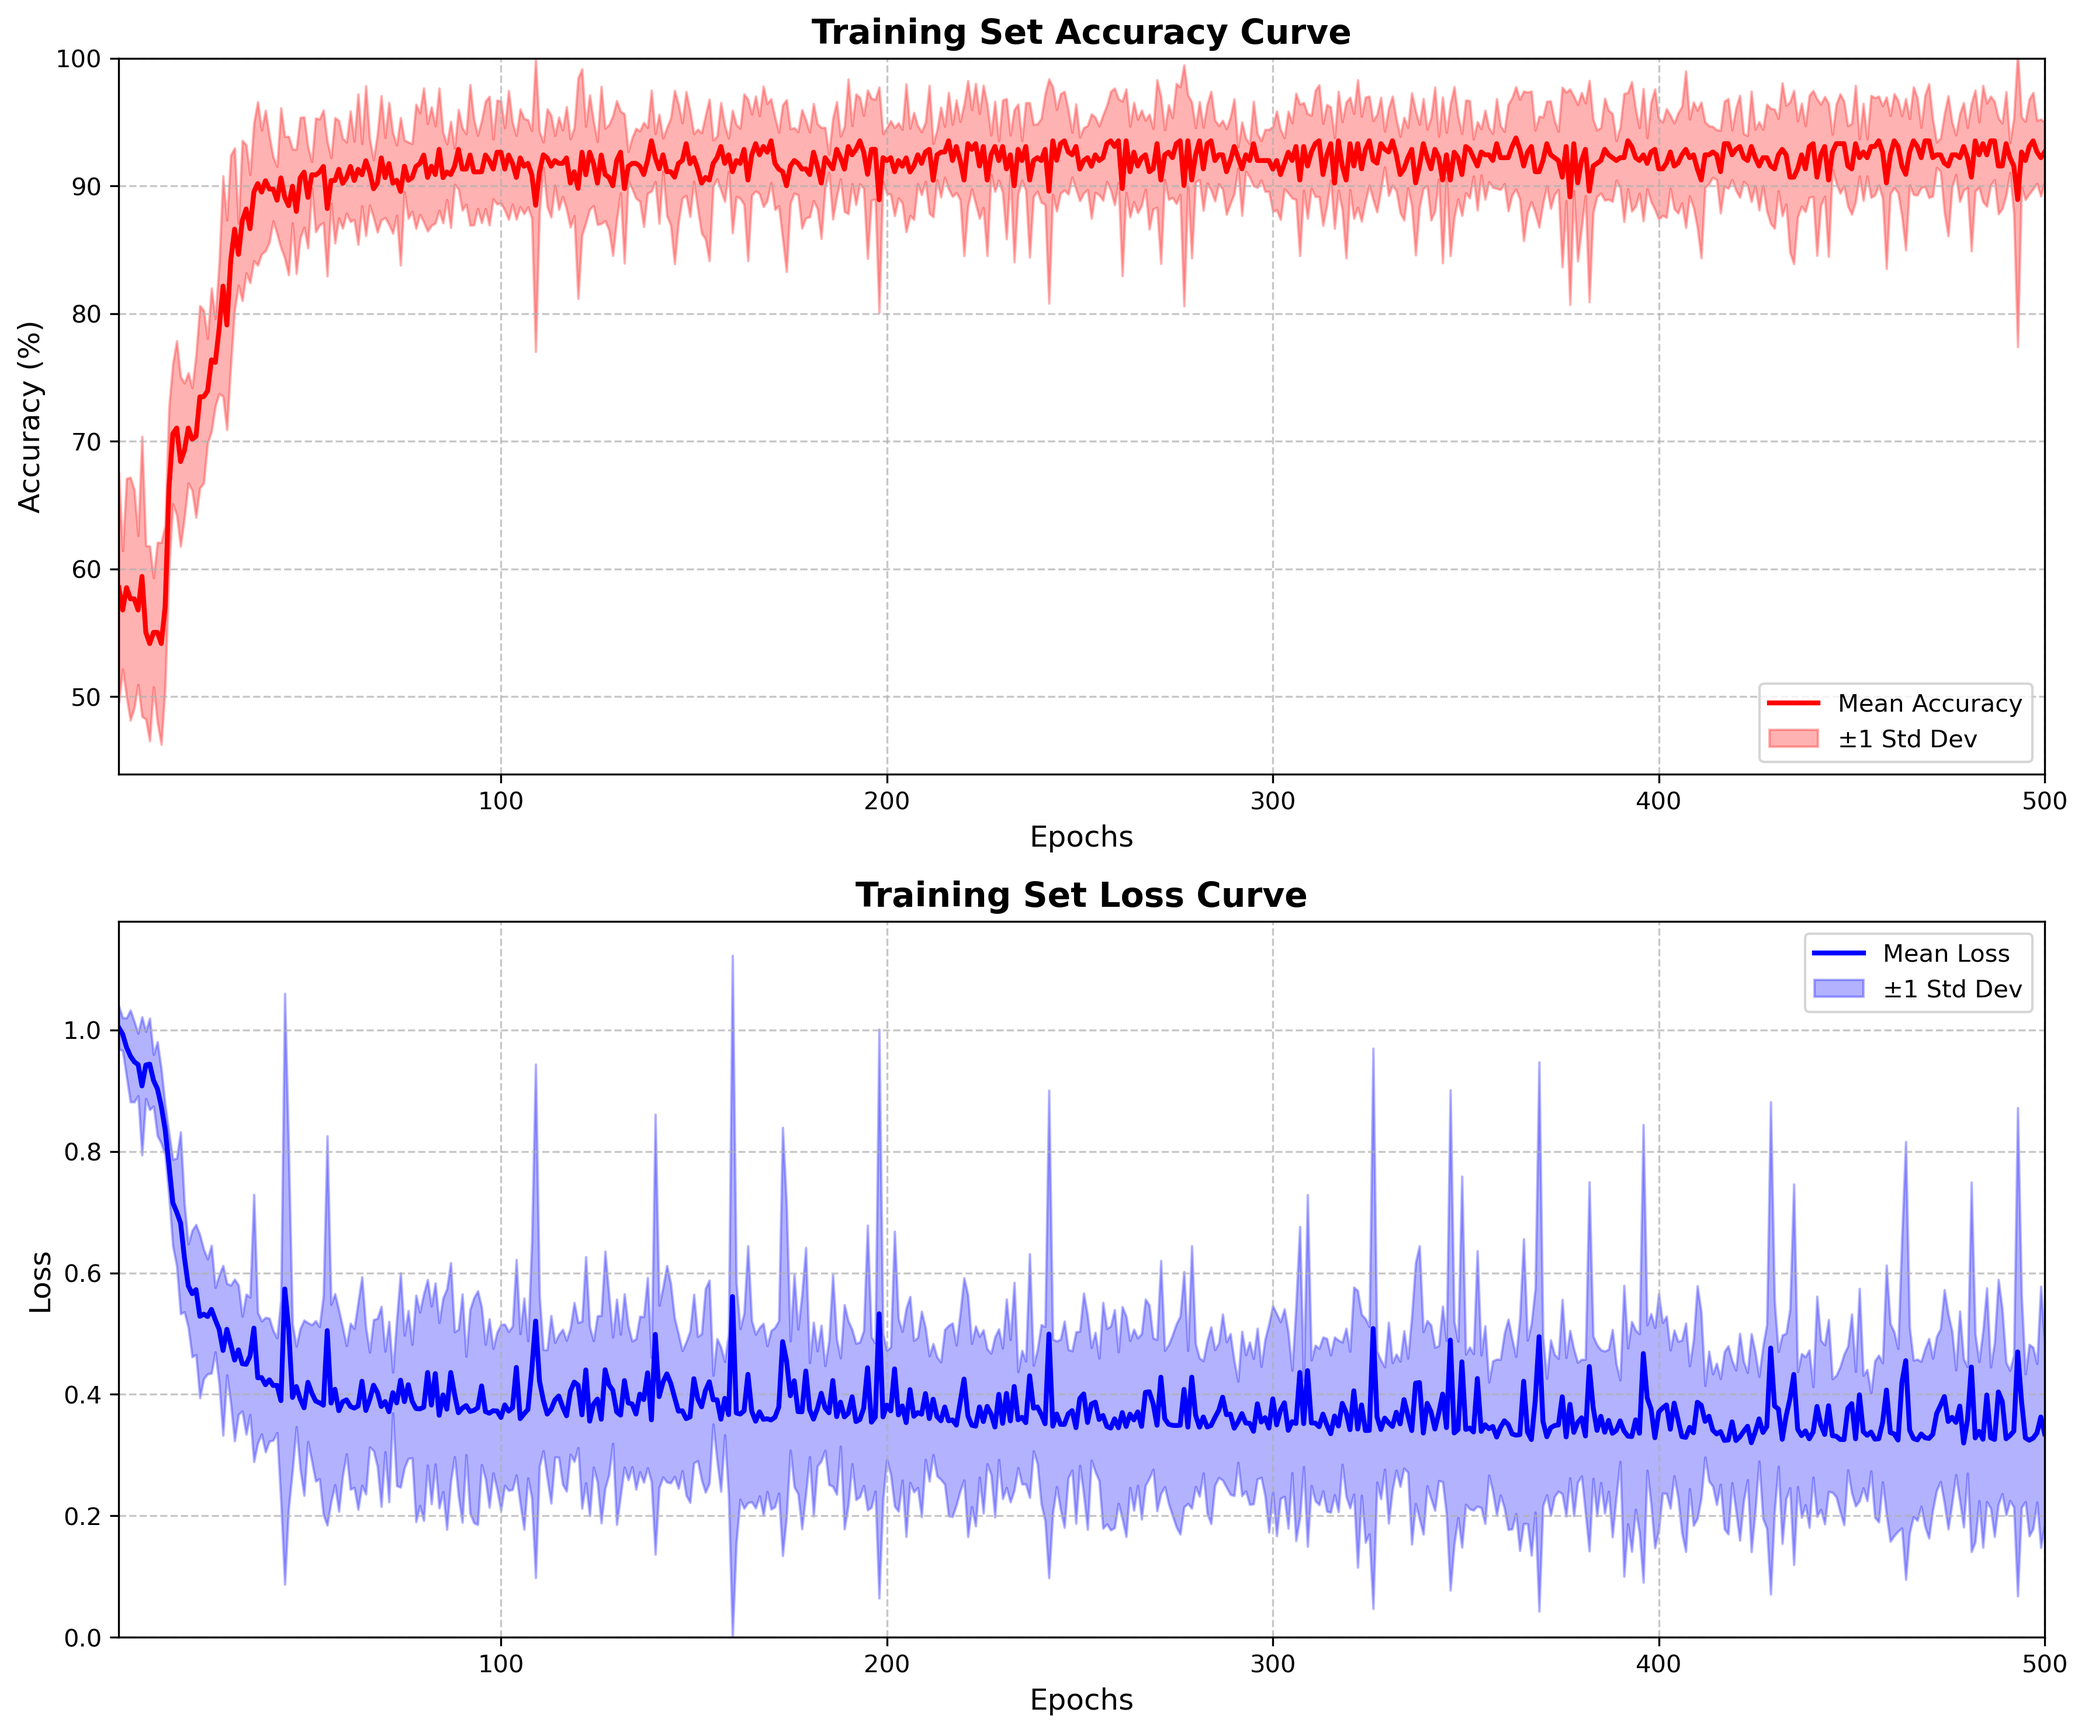
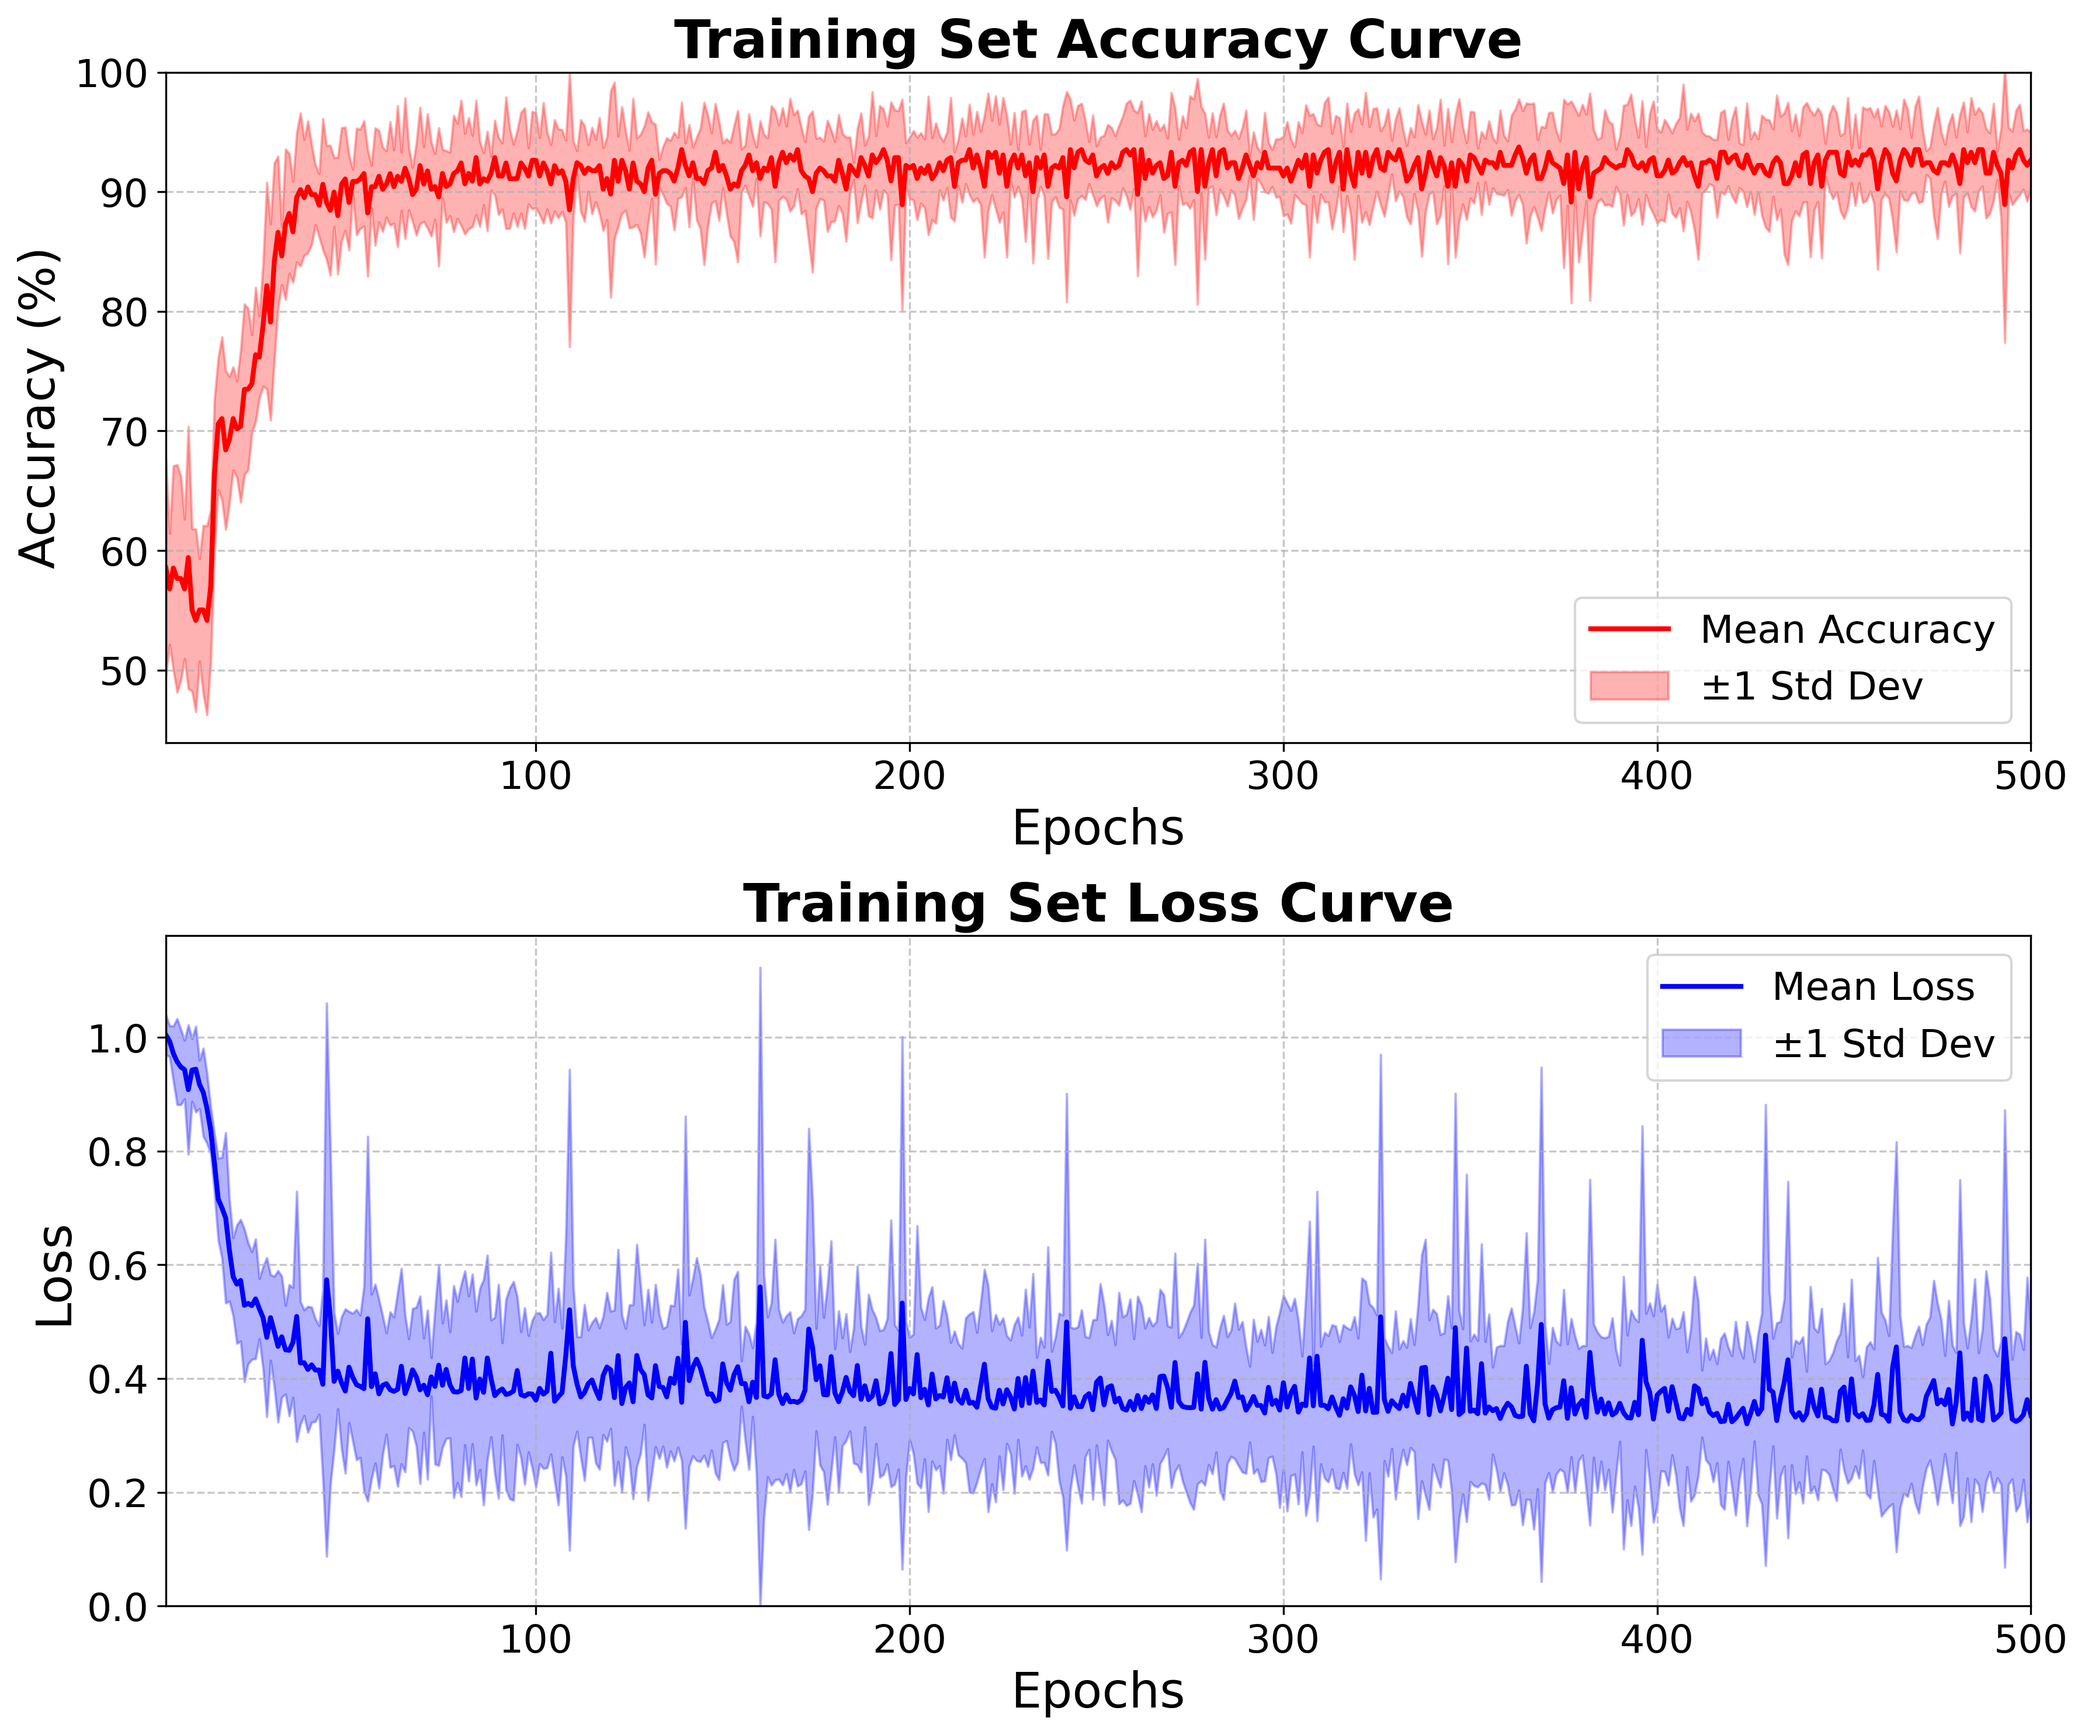
update graphs

diff --git a/main.py b/main.py
@@ -82,12 +82,15 @@ def plot_training_progress(train_losses, train_accuracies):
     # Plot accuracy with mean and std deviation
     ax1.plot(epochs, acc_means, 'r-', linewidth=2, label='Mean Accuracy')
     ax1.fill_between(epochs, acc_lower, acc_upper, color='red', alpha=0.3, label='±1 Std Dev')
-    ax1.set_xlabel('Epochs', fontsize=12)
-    ax1.set_ylabel('Accuracy (%)', fontsize=12)
-    ax1.set_title('Training Set Accuracy Curve', fontsize=14, fontweight='bold')
-    ax1.legend(loc='lower right', fontsize=10)
+    ax1.set_xlabel('Epochs', fontsize=20)
+    ax1.set_ylabel('Accuracy (%)', fontsize=20)
+    ax1.set_title('Training Set Accuracy Curve', fontsize=22, fontweight='bold')
+    ax1.legend(loc='lower right', fontsize=16)
     ax1.grid(True, linestyle='--', alpha=0.7)
     ax1.set_xlim(1, len(train_accuracies))
+    
+    # Set tick label font sizes
+    ax1.tick_params(axis='both', which='major', labelsize=16)
     
     # Set y-axis limits for accuracy with some padding
     min_acc = max(0, min([min(acc_lower), min(acc_means)]) * 0.95)  # Ensure non-negative
@@ -97,12 +100,15 @@ def plot_training_progress(train_losses, train_accuracies):
     # Plot loss with mean and std deviation
     ax2.plot(epochs, loss_means, 'b-', linewidth=2, label='Mean Loss')
     ax2.fill_between(epochs, loss_lower, loss_upper, color='blue', alpha=0.3, label='±1 Std Dev')
-    ax2.set_xlabel('Epochs', fontsize=12)
-    ax2.set_ylabel('Loss', fontsize=12)
-    ax2.set_title('Training Set Loss Curve', fontsize=14, fontweight='bold')
-    ax2.legend(loc='upper right', fontsize=10)
+    ax2.set_xlabel('Epochs', fontsize=20)
+    ax2.set_ylabel('Loss', fontsize=20)
+    ax2.set_title('Training Set Loss Curve', fontsize=22, fontweight='bold')
+    ax2.legend(loc='upper right', fontsize=16)
     ax2.grid(True, linestyle='--', alpha=0.7)
     ax2.set_xlim(1, len(train_losses))
+    
+    # Set tick label font sizes
+    ax2.tick_params(axis='both', which='major', labelsize=16)
     
     # Set y-axis limits for loss with some padding
     min_loss = max(0, min([min(loss_lower), min(loss_means)]) * 0.95)  # Ensure non-negative
@@ -133,19 +139,20 @@ def plot_confusion_matrix(y_true, y_pred, title):
     
     # Create heatmap
     im = ax.imshow(cm, interpolation='nearest', cmap=plt.cm.Blues)
-    ax.set_title(title)
+    ax.set_title(title, fontsize=22, fontweight='bold')
     
     # Add colorbar
     cbar = plt.colorbar(im)
-    cbar.set_label('Number of Samples')
+    cbar.set_label('Number of Samples', fontsize=18)
+    cbar.ax.tick_params(labelsize=16)
     
     # Set axis labels
     classes = np.unique(np.concatenate((y_true, y_pred)))
     tick_marks = np.arange(len(classes))
     ax.set_xticks(tick_marks)
     ax.set_yticks(tick_marks)
-    ax.set_xticklabels(classes)
-    ax.set_yticklabels(classes)
+    ax.set_xticklabels(classes, fontsize=16)
+    ax.set_yticklabels(classes, fontsize=16)
     
     # Add text annotations
     thresh = cm.max() / 2.
@@ -153,10 +160,11 @@ def plot_confusion_matrix(y_true, y_pred, title):
         for j in range(cm.shape[1]):
             ax.text(j, i, format(cm[i, j], 'd'),
                    horizontalalignment="center",
-                   color="white" if cm[i, j] > thresh else "black")
+                   color="white" if cm[i, j] > thresh else "black",
+                   fontsize=18)
     
-    ax.set_ylabel('True Label')
-    ax.set_xlabel('Predicted Label')
+    ax.set_ylabel('True Label', fontsize=20)
+    ax.set_xlabel('Predicted Label', fontsize=20)
     plt.tight_layout()
     plt.savefig(f'confusion_matrix_{title.lower().replace(" ", "_")}.png', dpi=300, bbox_inches='tight')
     plt.close()
@@ -192,11 +200,14 @@ def plot_roc_curve_multi(y_true, y_pred, n_classes):
     
     plt.xlim([0.0, 1.0])
     plt.ylim([0.0, 1.0])
-    plt.xlabel('False Positive Rate')
-    plt.ylabel('True Positive Rate')
-    plt.title('ROC Curve')
-    plt.legend(loc="lower right")
+    plt.xlabel('False Positive Rate', fontsize=20)
+    plt.ylabel('True Positive Rate', fontsize=20)
+    plt.title('ROC Curve', fontsize=22, fontweight='bold')
+    plt.legend(loc="lower right", fontsize=16)
     plt.grid(True)
+    
+    # Set tick label font sizes
+    plt.tick_params(axis='both', which='major', labelsize=16)
     
     # Save the figure
     plt.savefig('roc_curve.png', dpi=300, bbox_inches='tight')
